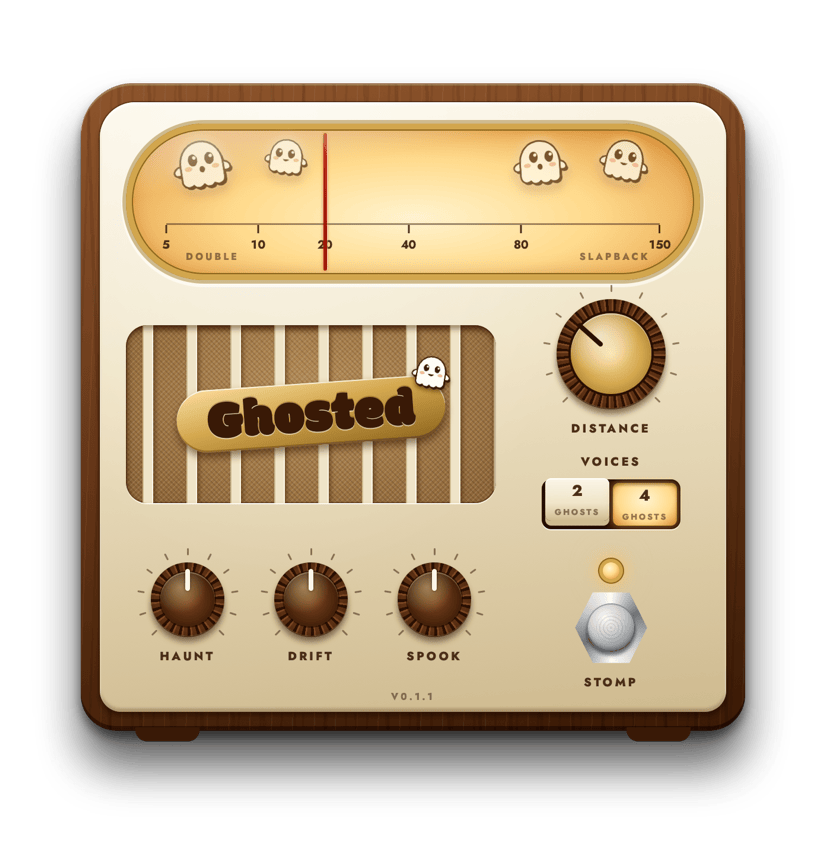
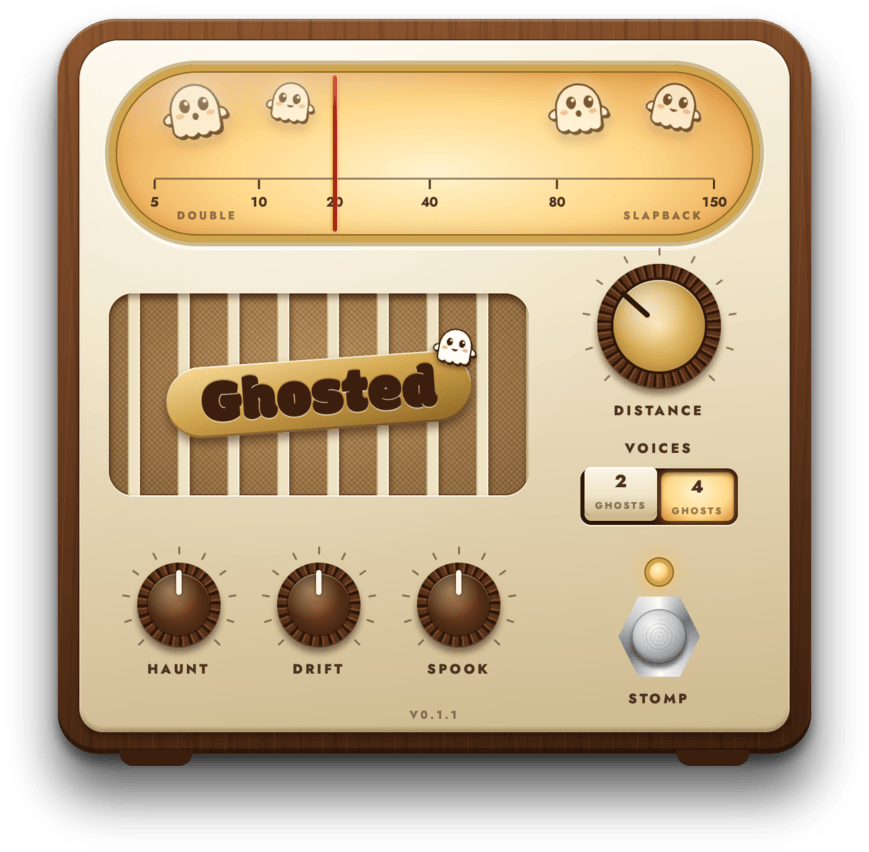
Crop screenshots to the object and its shadow
The margin added for the drop shadow made the screenshot taller than
the window, so after scaling the object filled less of the image and
sat above centre. The script now trims the transparent edges with
ImageMagick before scaling, and the workflow installs it.

Claude-Session: https://claude.ai/code/session_01M6vpxR81VaPY9T4oUmhAa4

diff --git a/.claude/skills/screenshot/SKILL.md b/.claude/skills/screenshot/SKILL.md
@@ -14,13 +14,14 @@ the `alt` text gets updated.
 1. Run `cargo test` so `ui/mock.json` is known to match the plugin's
    parameters and defaults, and the shot shows the real controls at
    their defaults. If it's stale, rewrite it with `BLESS=1 cargo test`.
-2. Run `scripts/screenshot.sh`. It needs `pngquant`
-   (`brew install pngquant`). It renders the page against its mock in
-   WebKit at 2x and `PAGE.size`, with the version from `Cargo.toml`.
-   It drops the `html` and `body` backgrounds, so the object sits on
-   transparency with its shadow. Then it writes `docs/<name>.png` 852 px
-   tall, quantized with pngquant, and sets the README `<img>` `width` to
-   half its pixel width. An older `docs/<name>.jpg` is deleted and the
+2. Run `scripts/screenshot.sh`. It needs pngquant and ImageMagick
+   (`brew install pngquant imagemagick`). It renders the page against
+   its mock in WebKit at 2x and `PAGE.size`, with the version from
+   `Cargo.toml`, plus a margin for the drop shadow. It drops the `html`
+   and `body` backgrounds, so the object sits on transparency with its
+   shadow. Then it crops to what's visible, writes `docs/<name>.png`
+   852 px tall, quantized with pngquant, and sets the README `<img>`
+   `width` to half its pixel width. An older `docs/<name>.jpg` is deleted and the
    README `<img>` pointed at the PNG.
 3. Look at the PNG. If fonts haven't loaded, a knob is mid-glide or the
    mock's values are off, fix that and rerun it. To see the

diff --git a/README.md b/README.md
@@ -1,6 +1,6 @@
 # Ghosted
 
-<img src="docs/ghosted.png" width="413" alt="Ghosted, a vintage walnut and cream bakelite radio with an amber dial full of ghosts, a brass Ghosted badge in a puffy font on the speaker grille, a brass Distance tuning knob, 2 and 4 ghost band keys, and Haunt, Drift and Spook knobs, and a chrome footswitch under an amber pilot lamp">
+<img src="docs/ghosted.png" width="434" alt="Ghosted, a vintage walnut and cream bakelite radio with an amber dial full of ghosts, a brass Ghosted badge in a puffy font on the speaker grille, a brass Distance tuning knob, 2 and 4 ghost band keys, and Haunt, Drift and Spook knobs, and a chrome footswitch under an amber pilot lamp">
 
 Drifting double-tracking for guitar, vocals or anything else, as a
 VST3 and CLAP plugin for macOS and Windows. It adds two or four delayed
